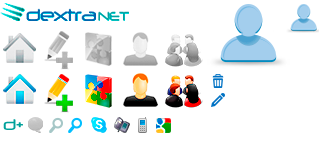
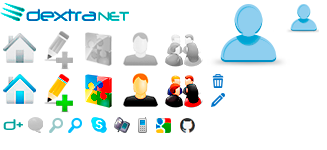
Tela: equipe

diff --git a/src/main/webapp/css/equipe.css b/src/main/webapp/css/equipe.css
@@ -1,6 +1,6 @@
 .list-menu-abcd{margin-bottom:25px;list-style:none;background-color:#f9f9f9;padding-left:4px;border-radius:5px;border:1px solid #eaeaea;box-shadow:inset 0 0 0 1px #fff,inset 0 3px 3px #eee;}
 .list-menu-abcd > li {float:left;margin-right:2px;}
-.list-menu-abcd > li > a{display:block;padding:6px 4px;font-weight:bold;font-size:15px;text-transform:uppercase;}
+.list-menu-abcd > li > a{display:block;padding:8px 10px;font-weight:bold;font-size:15px;text-transform:uppercase;}
 .list-menu-abcd > li > a:hover{background-color:rgba(0,0,0,0.05);}
 
 #form-team{position:relative;margin:5px 0 15px;}
@@ -23,14 +23,15 @@
 .list-team-avatar > .avatar-frame > span{margin-top:11px;}
 .list-team-avatar > .avatar-frame > img{width:85px;max-height:85px;}
 
-.list-team-content{float:left;width:387px;}
-.list-team-content > h3{color:#436795;font-size:15px;margin-bottom:0;}
-.list-team-content > h3 > span{color:#7d91ab;font-size:13px;}
+.list-team-content > h3{color:#436795;font-size:16px;margin-bottom:0;}
+.list-team-content > h3 > span{color:#4d6e99;font-size:14px;}
+.list-team-content > h3 > span:last-child{color:#335684;opacity:.75;}
 .list-team-content p{padding-bottom:3px;font-size:13px;color:#666;}
-.list-team-content span.left{float:left;display:block;min-width:260px;}
-.list-team-content-geral [class^=icon],
-.list-team-content-ramal [class^=icon],
-.list-team-content-webcontact [class^=icon],
-.list-team-content-phones [class^=icon]{margin-right:3px;}
 .list-team-content-geral{margin-bottom:10px;}
-.list-team-content-ramal{float:right;}
+
+.list-team-content-data{list-style:none;}
+.list-team-content-data > li{float:left;width:265px;margin-right:20px;margin-bottom:4px;font-size:13px;color:#666;}
+.list-team-content-data [class^=icon]{margin-right:3px;}
+.list-team-content-data > .list-team-content-phone{width:175px;}
+.list-team-content-data > li a{color:#569;}
+

diff --git a/src/main/webapp/css/main.css b/src/main/webapp/css/main.css
@@ -40,6 +40,7 @@ html{font-size:100%;}
 .icon_avatarcommon_small{width:31px;height:31px;background-position:-288px -3px;}
 .icon_gtalk-mini{background-position:-155px -118px;}
 .icon_skype-mini{background-position:-91px -117px;}
+.icon_github-mini{background-position:-180px -118px;}
 .icon_cellphone-mini{background-position:-114px -118px;}
 .icon_phone-mini{background-position:-134px -118px;}
 .icon_icon-trash{background-position:-210px -74px;width:14px;height:14px;margin-right:4px;vertical-align:-2px;}
@@ -265,7 +266,8 @@ textarea:focus{color:#5c95d5;border-color:#9bc7f8;box-shadow:0 0 5px #75b6ff,ins
 #content_right{width:330px;position:absolute;top:0;right:10px;}
 
 #container_mensagem{margin-right:350px;}
-#container_mensagem > li{margin:0 0 20px;padding:7px 10px 7px 30px;border-radius:3px;box-shadow:inset 0 2px 2px rgba(0,0,0,.075);border:1px solid #ccc;font-size:11px;cursor:pointer;position:relative;}
+#container_mensagem > li{margin:0 0 10px;padding:7px 10px 7px 30px;border-radius:3px;box-shadow:inset 0 2px 2px rgba(0,0,0,.075);border:1px solid #ccc;font-size:11px;cursor:pointer;position:relative;}
+#container_mensagem > li:last-child{margin-bottom:20px;}
 #container_mensagem > .info{background-color:#e0effa;border-color:#94afc2;color:#39444b;}
 #container_mensagem > .success{background-color:#c7f5b8;border-color:#8bc776;color:#314f27;}
 #container_mensagem > .error{background-color:#ffe3e1;border-color:#cfb1af;color:#572c29;}
